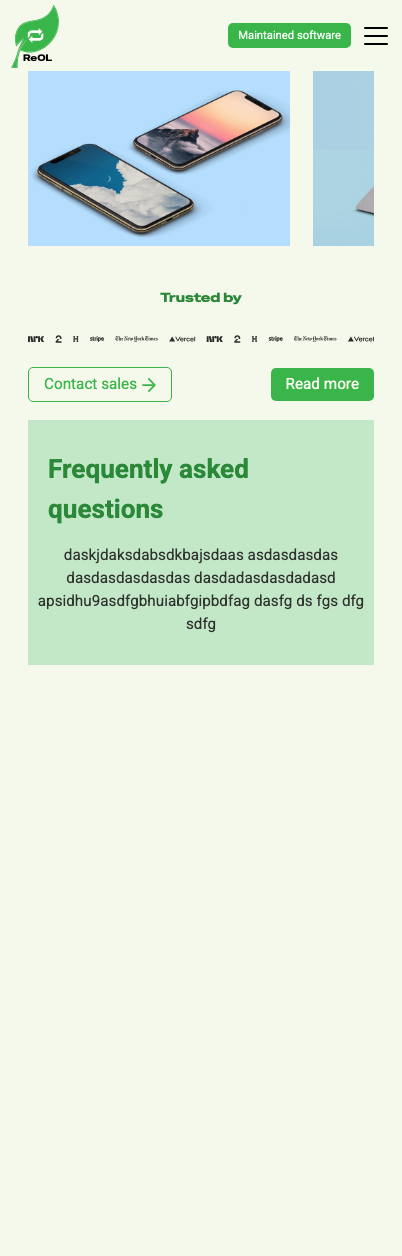
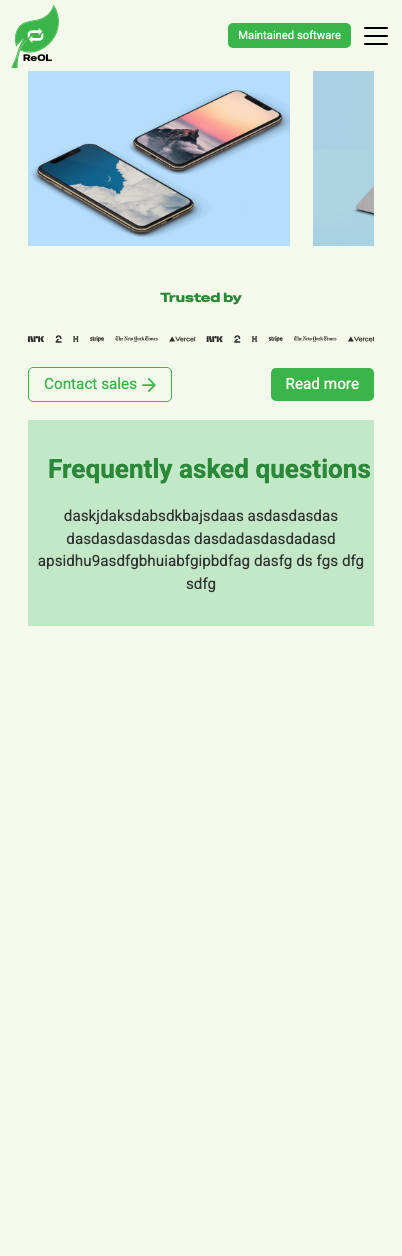
fix: prevent FAQ heading wrap with whitespace-nowrap and lower clamp min

Changed region(s): [[0.0597, 0.3416, 0.9552, 0.5279]]

diff --git a/app/app.css b/app/app.css
@@ -13,7 +13,7 @@
   --text-base: clamp(14px, 3.8vw, 16px);
   --text-heading-lg: clamp(22px, 7vw, 29px);
   --text-logo-sm: clamp(8px, 2.3vw, 10.07px);
-  --text-faq-heading: clamp(22px, 6.5vw, 28px);
+  --text-faq-heading: clamp(18px, 6.5vw, 28px);
 
   --color-green-light: #F5F9EB;
   --color-green-normal: #39B54A;

diff --git a/app/home/components/faq.tsx b/app/home/components/faq.tsx
@@ -1,7 +1,7 @@
 export default function Faq() {
   return (
     <section className="mx-auto flex w-full max-w-[382px] flex-col items-center gap-[15px] bg-green-light-active py-[30px]">
-      <h2 className="self-stretch text-left px-[20px] font-body text-faq-heading font-bold text-green-dark">
+      <h2 className="self-stretch whitespace-nowrap text-left px-[20px] font-body text-faq-heading font-bold text-green-dark">
         Frequently asked questions
       </h2>
       <p className="w-[329.95px] text-center font-body text-base text-font-muted">